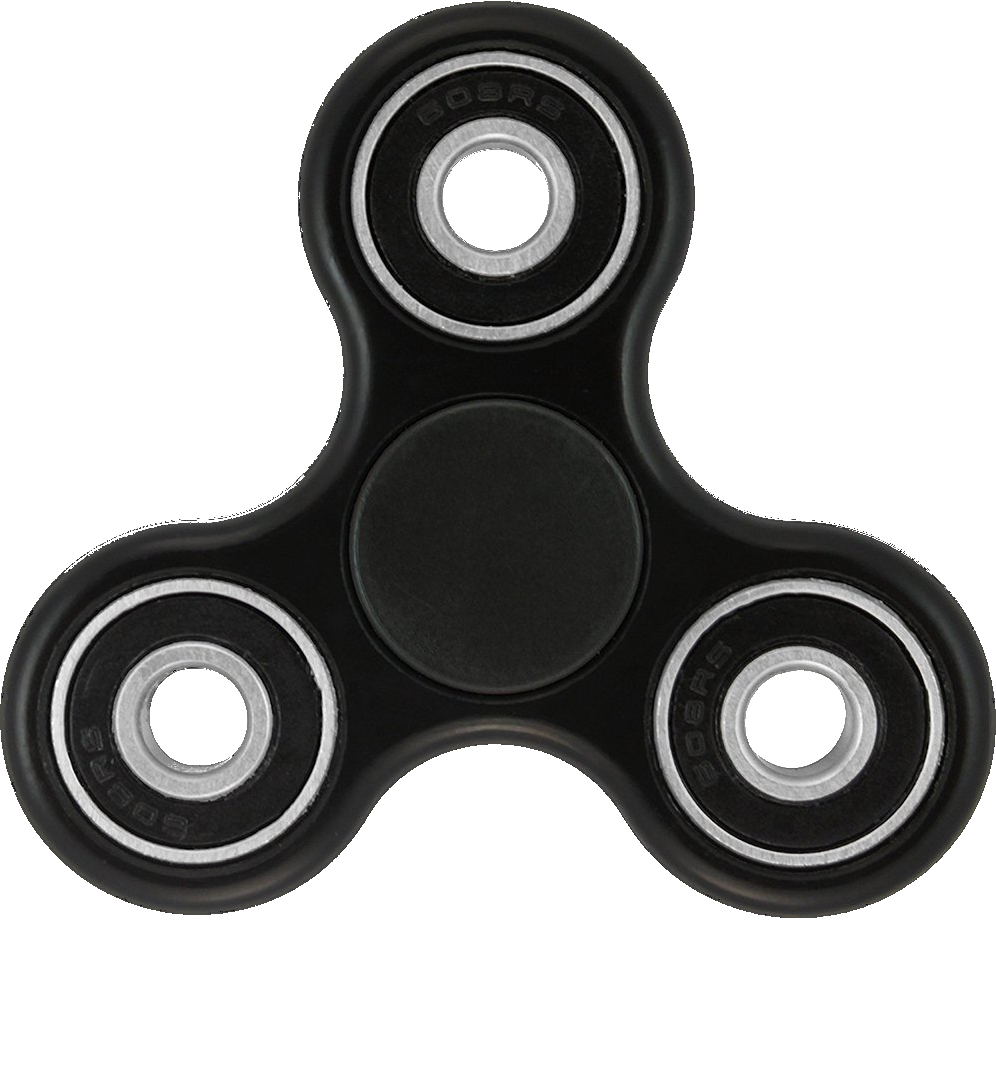
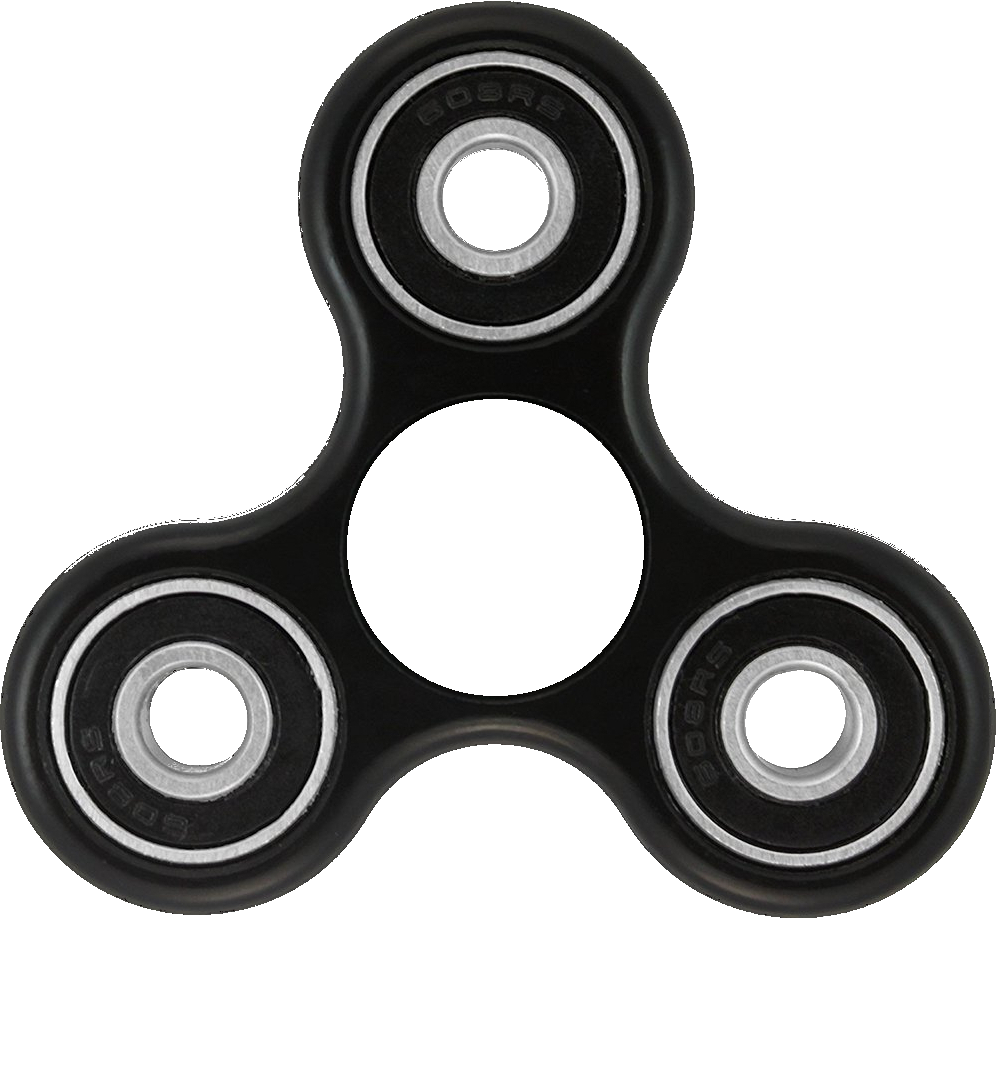
center/anchor now a separate component

Changed region(s): [[0.3424, 0.3667, 0.6536, 0.6417]]

diff --git a/core/src/com/jimmt/spinner/MainScreen.java b/core/src/com/jimmt/spinner/MainScreen.java
@@ -7,32 +7,41 @@ import com.badlogic.gdx.graphics.GL20;
 import com.badlogic.gdx.graphics.OrthographicCamera;
 import com.badlogic.gdx.graphics.Texture;
 import com.badlogic.gdx.graphics.Texture.TextureFilter;
-import com.badlogic.gdx.graphics.g2d.ParticleEffect;
 import com.badlogic.gdx.graphics.g2d.SpriteBatch;
 import com.badlogic.gdx.graphics.glutils.ShapeRenderer;
 import com.badlogic.gdx.graphics.glutils.ShapeRenderer.ShapeType;
 import com.badlogic.gdx.math.Vector2;
 import com.badlogic.gdx.physics.box2d.Box2DDebugRenderer;
 import com.badlogic.gdx.physics.box2d.World;
+import com.badlogic.gdx.scenes.scene2d.ui.Image;
+import com.badlogic.gdx.scenes.scene2d.ui.ImageButton;
+import com.badlogic.gdx.scenes.scene2d.ui.ImageButton.ImageButtonStyle;
 import com.badlogic.gdx.utils.Scaling;
 import com.badlogic.gdx.utils.viewport.ScalingViewport;
 
 public class MainScreen implements Screen {
-    private OrthographicCamera camera;
+    private OrthographicCamera camera, uiCamera;
     private World world;
     private SpriteBatch batch;
+    private SpriteBatch uiBatch;
     private SpinnerSprite spinner;
     private Box2DDebugRenderer renderer;
     private SpinnerInput spinnerInput;
     private ShapeRenderer sr;
-    private ScalingViewport viewport;
+    private ScalingViewport viewport, uiViewport;
+    private ImageButton effectsButton;
 
     public MainScreen() {
         viewport = new ScalingViewport(Scaling.fit, 600 * Constants.PIX_TO_BOX,
                                        960 * Constants.PIX_TO_BOX);
         camera = (OrthographicCamera) viewport.getCamera();
+        uiViewport = new ScalingViewport(Scaling.fit, 600, 960);
+        uiCamera = (OrthographicCamera) uiViewport.getCamera();
+        uiCamera.translate(uiViewport.getWorldWidth() / 2,
+                           uiViewport.getWorldHeight() / 2);
 
         batch = new SpriteBatch();
+        uiBatch = new SpriteBatch();
         world = new World(new Vector2(0, 0), false);
         Texture spinnerTex = new Texture(Gdx.files.internal("spinner.png"));
         spinnerTex.setFilter(TextureFilter.Linear, TextureFilter.Linear);
@@ -47,7 +56,13 @@ public class MainScreen implements Screen {
         spinnerInput = new SpinnerInput(spinner, camera);
         Gdx.input.setInputProcessor(spinnerInput);
 
-        sr = new ShapeRenderer();    
+        sr = new ShapeRenderer();
+
+        ImageButtonStyle style = new ImageButtonStyle();
+        Image img = new Image(new Texture(Gdx.files.internal("button.png")));
+        img.scaleBy(Constants.PIX_TO_BOX);
+        style.up = img.getDrawable();
+        effectsButton = new ImageButton(style);
     }
 
     @Override
@@ -60,24 +75,44 @@ public class MainScreen implements Screen {
         Gdx.gl.glClear(GL20.GL_COLOR_BUFFER_BIT);
 
         batch.setProjectionMatrix(camera.combined);
+        uiBatch.setProjectionMatrix(uiCamera.combined);
         world.step(1 / 60f, 3, 3);
         camera.update();
+        uiCamera.update();
         batch.begin();
         spinner.draw(batch);
         batch.end();
 
+        uiBatch.begin();
+        float margin = 0f;
+        effectsButton.setPosition(uiViewport.getWorldWidth() - 64 - 10, uiViewport.getWorldHeight() - 64-32);
+        effectsButton.draw(uiBatch, 1.0f);
+        uiBatch.end();
+
+        sr.setProjectionMatrix(uiCamera.combined);
+        sr.setColor(Color.RED);
+        sr.begin(ShapeType.Line);
+        sr.circle(uiViewport.getWorldWidth(), uiViewport.getWorldHeight(), 50);
+//        sr.setColor(Color.BLUE);
+//        sr.line(0, 0, uiViewport.getScreenWidth(),
+//                uiViewport.getScreenHeight());
+        sr.end();
+
         viewport.update(Gdx.graphics.getWidth(), Gdx.graphics.getHeight());
-//        renderer.render(world, camera.combined);
+        uiViewport.update(Gdx.graphics.getWidth(), Gdx.graphics.getHeight());
+        // renderer.render(world, camera.combined);
 
         // if (spinnerInput.angle1 != null) {
-//         sr.setProjectionMatrix(camera.combined);
-//         sr.setColor(Color.RED);
-//         sr.begin(ShapeType.Line);
-//         sr.line(spinner.getX() + spinner.getOriginX(), spinner.getY() +
-//         spinner.getOriginY(), spinnerInput.worldLast.x, spinnerInput.worldLast.y);
-//         sr.line(spinner.getX() + spinner.getOriginX(), spinner.getY() +
-//                 spinner.getOriginY(), spinnerInput.worldCurrent.x, spinnerInput.worldCurrent.y);
-//         sr.end();
+        // sr.setProjectionMatrix(camera.combined);
+        // sr.setColor(Color.RED);
+        // sr.begin(ShapeType.Line);
+        // sr.line(spinner.getX() + spinner.getOriginX(), spinner.getY() +
+        // spinner.getOriginY(), spinnerInput.worldLast.x,
+        // spinnerInput.worldLast.y);
+        // sr.line(spinner.getX() + spinner.getOriginX(), spinner.getY() +
+        // spinner.getOriginY(), spinnerInput.worldCurrent.x,
+        // spinnerInput.worldCurrent.y);
+        // sr.end();
         // sr.line(spinner.getX() + spinner.getOriginX(), spinner.getY() +
         // spinner.getOriginY(),
         // spinnerInput.lastAngle.x, spinnerInput.lastAngle.y);
@@ -90,6 +125,8 @@ public class MainScreen implements Screen {
 
     @Override
     public void resize(int width, int height) {
+        viewport.update(width, height);
+        uiViewport.update(width, height);
     }
 
     @Override

diff --git a/core/src/com/jimmt/spinner/SpinnerSprite.java b/core/src/com/jimmt/spinner/SpinnerSprite.java
@@ -2,6 +2,7 @@ package com.jimmt.spinner;
 
 import java.util.ArrayList;
 
+import com.badlogic.gdx.Gdx;
 import com.badlogic.gdx.graphics.Texture;
 import com.badlogic.gdx.graphics.g2d.Batch;
 import com.badlogic.gdx.graphics.g2d.Sprite;
@@ -20,6 +21,7 @@ import com.badlogic.gdx.physics.box2d.joints.RevoluteJointDef;
 public class SpinnerSprite extends Sprite {
 	private ArrayList<Body> circles;
     private TripleEffect effect;
+    private Sprite anchorSprite;
 	private Body anchor;
 
 	private float scale = 1 / 2f, initialRotOffset;
@@ -40,7 +42,7 @@ public class SpinnerSprite extends Sprite {
 		connectCircles(1, 2, world);
 
 		setSize(getWidth() * Constants.PIX_TO_BOX * scale, getHeight() * Constants.PIX_TO_BOX * scale);
-		setOrigin(getWidth() / 2f, getHeight() / 2f);
+		setOrigin(497 / 200f, (1080 - 547) / 200f);
 		initialRotOffset = anchor.getPosition().sub(circles.get(0).getPosition()).angle();
         
         effect = new TripleEffect(circles, anchor);
@@ -68,6 +70,10 @@ public class SpinnerSprite extends Sprite {
 		circle.setRadius(150f * scale * Constants.PIX_TO_BOX);
 		anchorFD.shape = circle;
 		anchor.createFixture(anchorFD);
+		
+		anchorSprite = new Sprite(new Texture(Gdx.files.internal("anchor.png")));
+		anchorSprite.setSize(anchorSprite.getWidth() * Constants.PIX_TO_BOX * scale, anchorSprite.getHeight() * Constants.PIX_TO_BOX * scale);
+
 	}
 
 	private Body initCircle(World world, Vector2 position) {
@@ -109,6 +115,8 @@ public class SpinnerSprite extends Sprite {
 	@Override
 	public void draw(Batch batch) {
 		super.draw(batch);
+	      anchorSprite.setPosition(this.getX(), this.getY());
+		anchorSprite.draw(batch);
 		Vector2 v2 = circles.get(0).getPosition().sub(anchor.getPosition());
 		this.setRotation(initialRotOffset + v2.angle());
 		effect.draw(batch);

diff --git a/core/src/com/jimmt/spinner/TripleEffect.java b/core/src/com/jimmt/spinner/TripleEffect.java
@@ -30,13 +30,11 @@ public class TripleEffect {
             this.hiMax = hiMax;
         }
     }
-
-    public TripleEffect(ArrayList<Body> circles, Body anchor) {
-        rotData = new ArrayList<ArrayList<RotationData>>();
-
+    
+    public void loadEffects(String path){
         for (int i = 0; i < 3; i++) {
             effects[i] = new ParticleEffect();
-            effects[i].load(Gdx.files.internal("wide.p"),
+            effects[i].load(Gdx.files.internal(path),
                             Gdx.files.internal(""));
             effects[i].scaleEffect(Constants.PIX_TO_BOX);
             effects[i].start();
@@ -52,6 +50,12 @@ public class TripleEffect {
                 list.add(new RotationData(loMin, loMax, hiMin, hiMax));
             }
         }
+    }
+
+    public TripleEffect(ArrayList<Body> circles, Body anchor) {
+        rotData = new ArrayList<ArrayList<RotationData>>();
+
+        loadEffects("empty.p");
 
         this.circles = circles;
         this.anchor = anchor;
